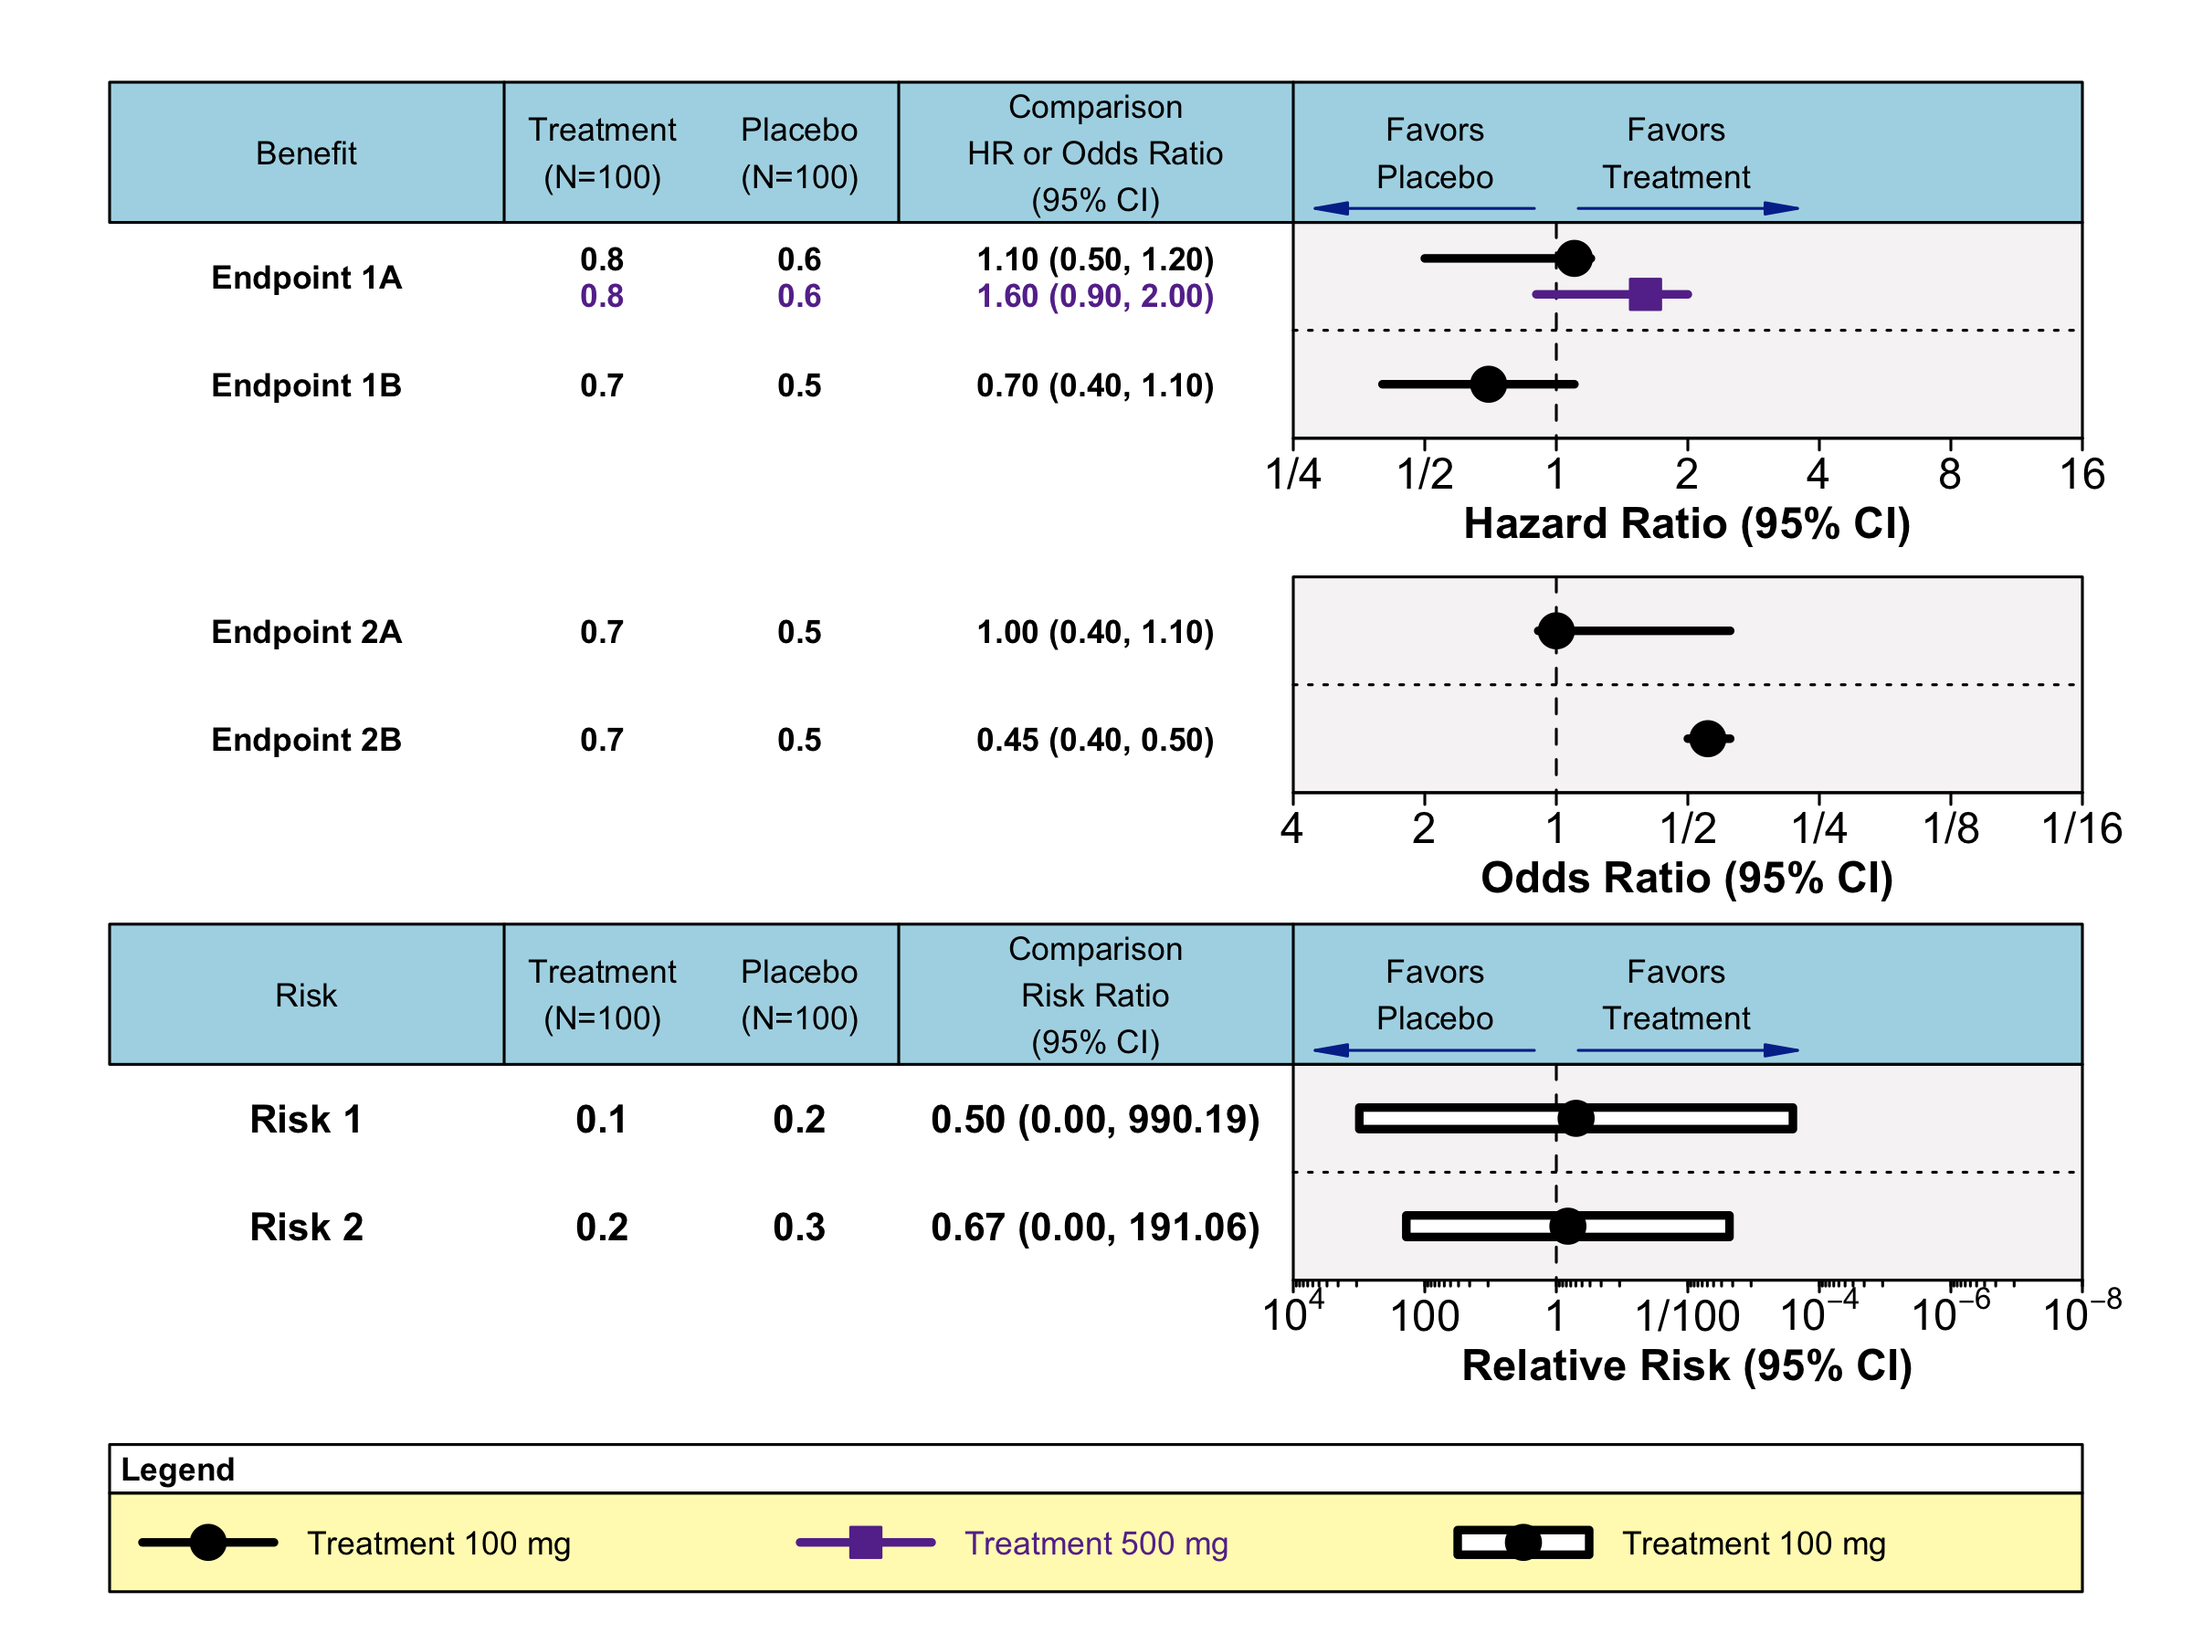
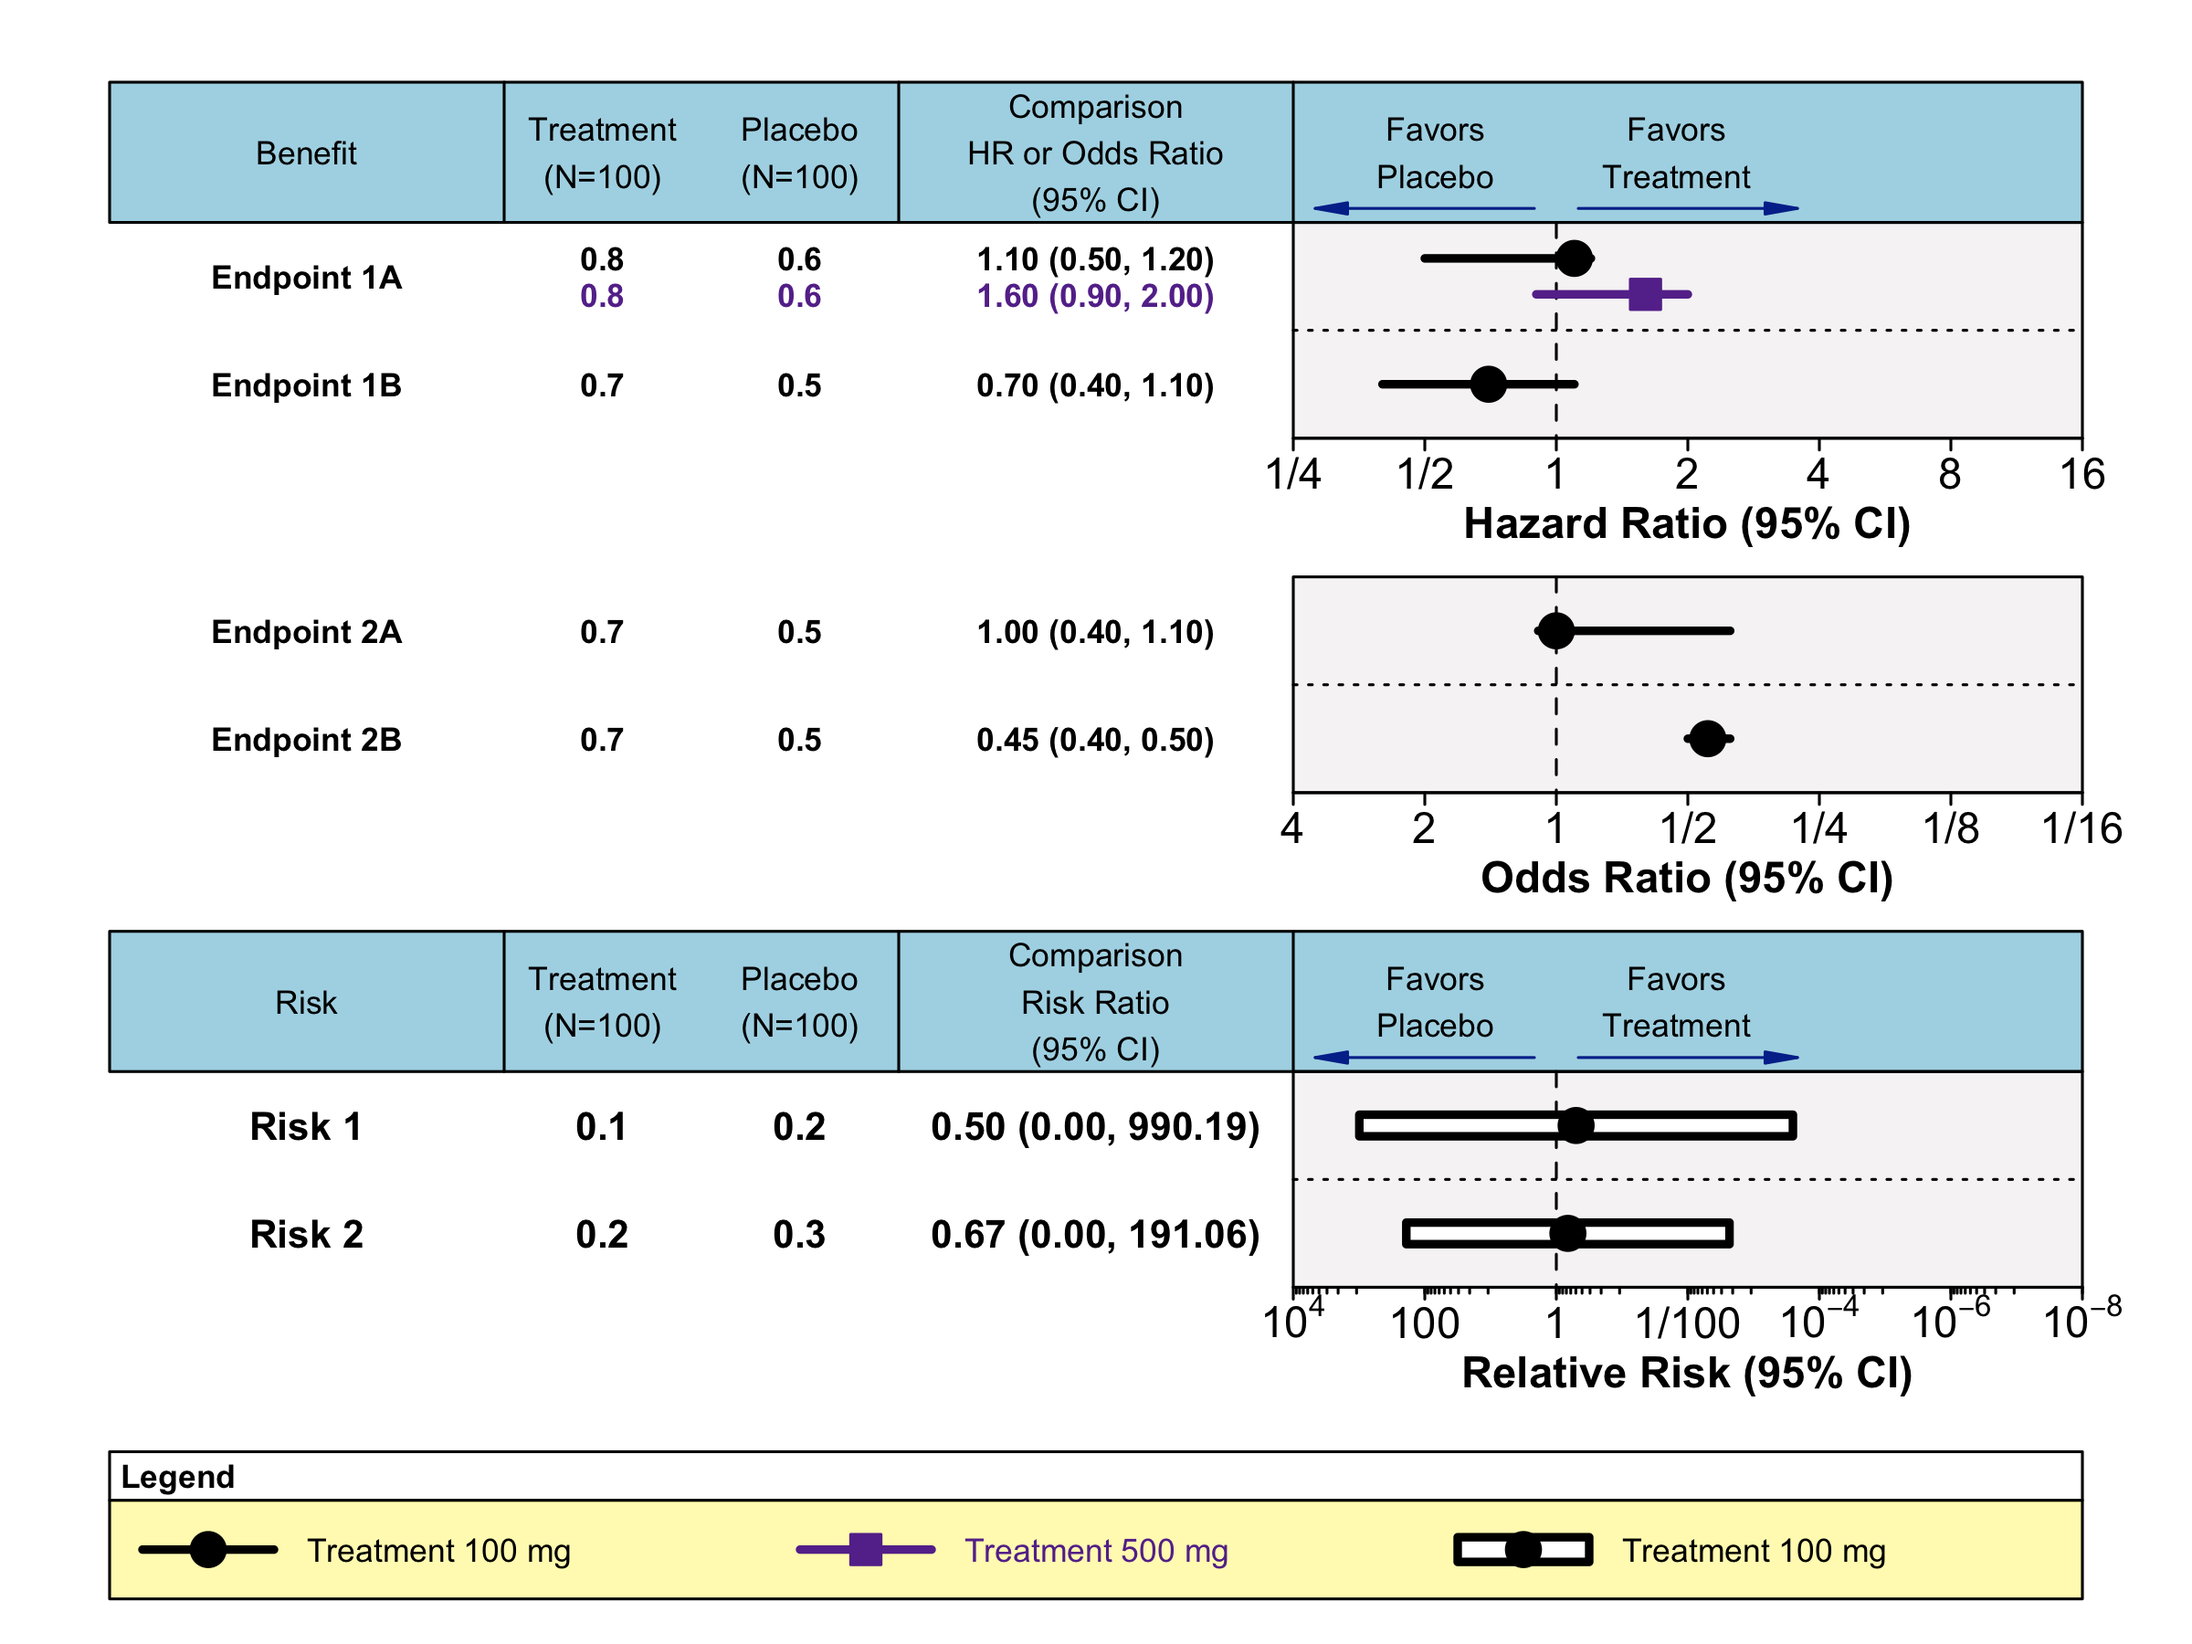
Refactor axis.R to improve tick plotting and add support for secondary ticks

diff --git a/README.md b/README.md
@@ -76,7 +76,7 @@ risks_options$set_label_font_size(label_font_size)
 part2_data <- plot_br(mock_data_risks, columns_specs_risks, breaks_width_risks,
                       split_axis_by_col, axes_labels_col, split_box_by_col, 
                       userect=TRUE, neutral_pos = 2, num_ticks = 6, 
-                      top_margin=1-part1_data$last_y+0.08,
+                      box_group=part1_data,
                       options_br=risks_options)
 
 br_legend <- list(
@@ -85,7 +85,7 @@ br_legend <- list(
     list(type='rectangle', pch=1, col=1, label = 'Treatment 100 mg')
 )
 
-last_options <- part2_data$boxes[[1]]$box$header$options
+last_options <- part2_data$options
 
 add_legend(legend_items = br_legend,
               xpos = unit(last_options$PAGE_LEFT_MARGIN, 'npc'),
